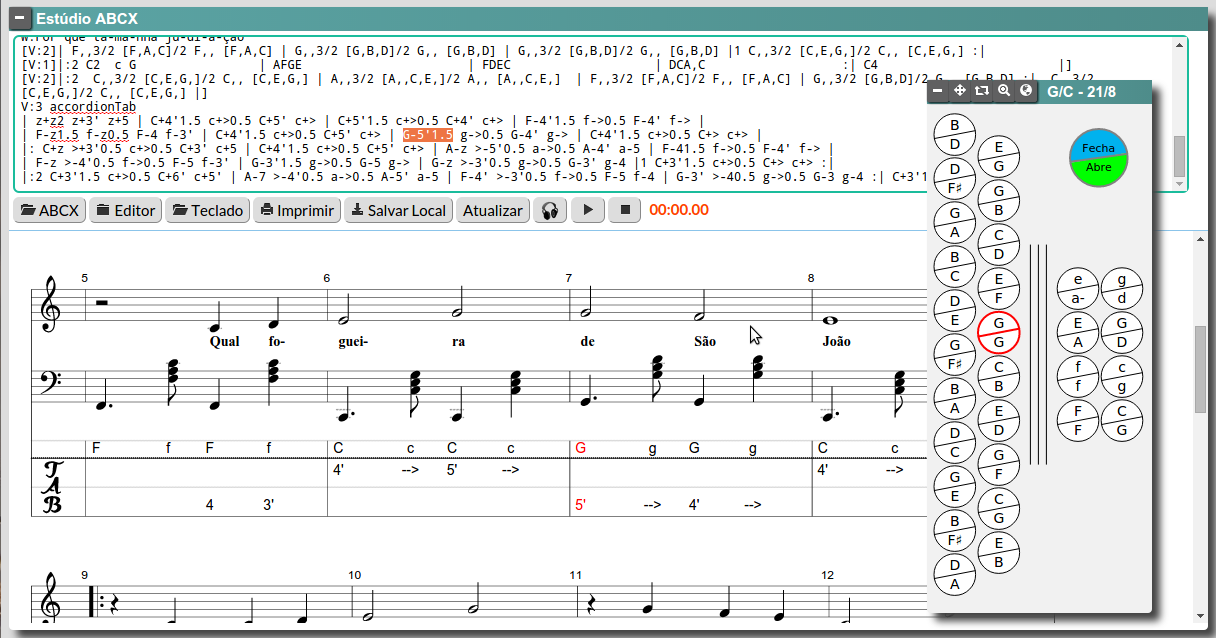
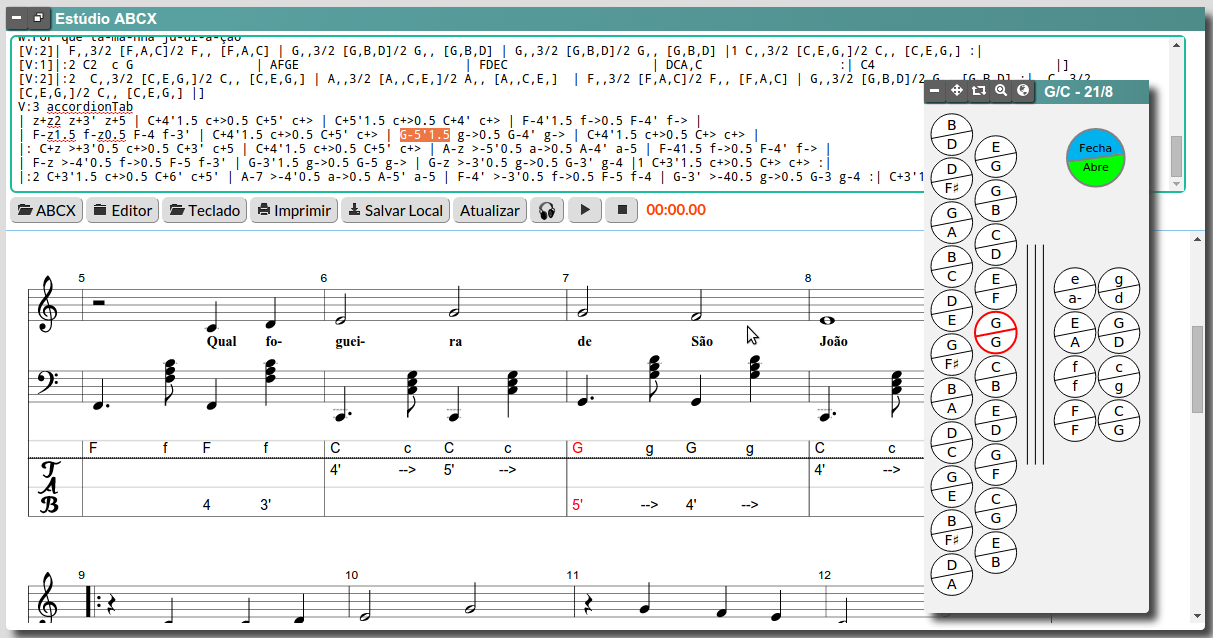
Versao 3.00: Nova apresentacao

diff --git a/html/estudioABCX.pt_BR.html b/html/estudioABCX.pt_BR.html
@@ -1,6 +1,5 @@
 <!DOCTYPE html>
-<html><head>
-<!--
+<html><head><!--
 
 To change this license header, choose License Headers in Project Properties.
 
@@ -9,6 +8,8 @@ To change this template file, choose Tools | Templates
 and open the template in the editor.
 
 --><title>Estúdio ABCX</title>
+
+
 
 
 
@@ -38,7 +39,7 @@ ABCX</span> <button id="printHelp" class="btn" title="Imprimir" onclick="printHe
 conforme
 já dissemos, são partituras formadas por arquivos no formato ABCX (ver
 documentação no menu de ajuda). Esses itens podem ser convenientemente
-modificados e executados neste pequeno estúdio, com o objetivo de
+modificados e executados neste pequeno estúdio, cujo objetivo é
 facilitar o aprendizado da gaita ponto.</p>
 <p>Quando o estúdio é acessado, automaticamente, ele é ajustado para o
 item do repertório do acordeon que estava selecionado na página
@@ -52,8 +53,7 @@ botões, uma
 folha de partitura, um editor de textos e um mapa de teclado. Na barra
 de botões há opções para ocultar/exibir alguns desses componentes, por
 exemplo, o editor e o mapa de teclado. Para fechar o estúdio e voltar à
-página inicial, clique no sinal <span style="font-weight: bold;">[-]</span>,
-no canto superior
+página inicial, clique no sinal <span style="font-weight: bold;">[-]</span>, no canto superior
 esquerdo da janela. </p>
 <div style="text-align: left;"><img src="../img/estudio.visao.geral.png" style="width: 1024px; height: 545px;" alt="Visão geral do estúdio ABCX" title="Visão geral do estúdio ABCX"> <br>
 </div>
@@ -99,12 +99,10 @@ mais adiante.</p>
 <h2>Controlando a apresentação<br>
 </h2>
 <p>Um dos objetivos deste estúdio é executar, com o algumas
-facilidades, uma dada partitura. A primeira coisa a fazer é privilegiar
-o espaço da tela a fim de comportar a maior parte da partitura e um
-mapa de
-teclado.&nbsp; Para tanto, além das funcionalidades disponíveis aqui,
-há algumas
-ações no próprio navegador que ajudam. Listamos os seguintes comandos,
+facilidades, uma dada partitura. A primeira coisa a fazer é ajustar a janela do estúdio, de forma a privilegiar
+o espaço da "<span style="font-weight: bold;">Folha de Partitura</span>" e, ainda, manter outras ferramentas, tais como, o "<span style="font-weight: bold;">Mapa de Teclado</span>".&nbsp; Para tanto, além de usar as funcionalidades disponíveis no estúdio,
+podemos executar algumas
+ações no próprio navegador que ajudarão. Listamos os seguintes comandos,
 comuns à maioria dos navegadores de Internet:</p>
 <ul>
   <li>F11 - Pressione esta tecla do seu computador para
@@ -140,29 +138,41 @@ execução "Didático". <br>
 </span>
 <p><span style="font-weight: bold;">Nota: </span>Observe que o mapa do
 teclado foi rotacionado em 180°, criando o efeito "espelho". Pode ser
-interessante para quem está aprendendo a tocar.<br>
+interessante para quem está aprendendo a tocar. Também, o modo didático
+de execução foi selecionado e os compassos de 1 a 8 estão em execução.
+As notas destacadas na partitura/tablatura são mostradas também no Mapa
+de Teclado.<br>
 </p>
+<p>Para restaurar a a aparência original do estúdio, use o botão "<span style="font-weight: bold;">Restaurar</span>", no canto superior esquerdo, ao lado do botão "<span style="font-weight: bold;">Fechar</span>".<br>
+</p>
+
 <h2>Folha de Partitura<br>
 </h2>
 
 <p>A folha de partitura, como o nome diz, é o display da partitura
 gerada a partir do texto ABCX. Adicionalmente, no topo da&nbsp;
-partitura, há uma pequena seção de avisos. Toda vez que a partitura é atualizada, se acontecer qualquer erro, o mesmo é listado
+partitura, há uma pequena seção de avisos. Toda vez que a partitura é
+atualizada, se acontecer qualquer erro, o mesmo é listado
 nesta área de advertências. A mensagem em verde significa que a
 partitura foi corretamente compilada a partir do texto. Mensagens em
-vermelho retratam erros de sintaxe no texto. Há ainda mensagens mais
+vermelho retratam erros de sintaxe no texto. Há ainda mensagens
 incomuns, em azul, no caso de ocorrer algum erro de execução do MIDI.</p>
 <h2>Mapa de Teclado<br>
 </h2>
 
-<p>Duas facilidades podem ser obtidas a partir da janela do Mapa de
-Teclado: 1) visualizar, durante a execução da partitura, quais botões
-da gaita devem ser pressionados; e, 2) auxiliar na edição do texto ABCX,
-quando se pretende alterar a tablatura. O mapa, aliado ao modo de execução
+<p>O Mapa de Teclado foi disponibilizado na janela do Estúdio para
+atender dois objetivos principais: 1) visualizar, durante a execução da
+partitura, quais botões
+da gaita estão sendo utilizados; e, 2) auxiliar na edição do texto
+ABCX,
+quando se pretende alterar a tablatura. <br>
+</p>
+<p>Este mapa, aliado ao modo de execução
 didática de uma partitura, é uma excelente ferramenta para aprendizado.
-Além disso a janela do Mapa de Teclado possui algumas funcionalidades
-na barra superior (à esquerda do título da janela). Listando os botões
+Além disso, a janela do Mapa de Teclado possui algumas funcionalidades
+na barra superior (à esquerda do título da janela). Enumerando os botões
 da esquerda para a direita, as funcionalidades são as seguintes:</p>
+
 <ul>
   <li>Fechar - Oculta a janela do teclado (pode ser exibido novamente a partir da barra de botões do estúdio).<br>
   </li>
@@ -197,8 +207,8 @@ Modo normal e Modo didático.<br>
 </p>
 <ul>
 <li>Modo normal/didático: chaveia entre os dois modos.<br>
-  </li><li>Executar/Pausar - Inicia a execução ou continua a partir do ponto onde foi suspensa.<br>
-  </li><li>Parar - Interrompe a execução e posiciona o MIDI player para a executar do ínicio novamente.</li>
+  </li><li>Executar/Pausar - Inicia ou suspende a execução. Ao retomar, continua a partir do ponto onde foi suspensa.<br>
+  </li><li>Parar - Interrompe a execução e posiciona o MIDI player para a executar do início novamente.</li>
 </ul>
 <p>Além dos botões do MIDI player, à direita, há o relógio indicador do tempo de execução.<br>
 </p>
@@ -227,7 +237,7 @@ que o botão é pressionado. Sempre executa a partir do ponto onde a
 execução foi anteriormente suspensa.<br>
 </li><li>Compasso: executa o compasso corrente até o seu final. Sempre
 executa a partir do ponto onde a execução foi anteriormente suspensa.</li><li>Repetir: repete o último compasso executado ou o intervalo selecionado nos campos "Ir para" e "até". <br>
-</li><li>Parar: para a execução atual e posiciona no primeiro compasso.</li><li>Andamento: ajusta o andamento em três valores diferentes. O valor "1"
+</li><li>Parar: para a execução atual e posiciona o MIDI player para a executar do início novamente.</li><li>Andamento: ajusta o andamento em três valores diferentes. O valor "1"
 significa o andamento normal, "1/2" significa que a partitura será
 executada com a metade da velocidade normal e, por fim, "1/4" executará
 a partitura 4 vezes mais lentamente que no andamento normal.
@@ -236,7 +246,9 @@ Pressionando mais uma vez, o andamento voltará para o valor "1".</li>
 <p> </p>
 <h2>Editando uma partitura<br>
 </h2>
-<p><span style="font-weight: bold;">Nota:</span> O editor está disponível somente para o Google Chrome atualmente. Para edições simples, veja abaixo "Edição Rápida" ou use o navegador do Google.<br>
+<p><span style="font-weight: bold;">Nota:</span> O editor está
+disponível somente para o Google Chrome atualmente. Para edições
+simples, veja abaixo "Edição Rápida" ou use o navegador do Google.<br>
 </p>
 <p>O segundo objetivo deste estúdio é permitir alterar qualquer partitura. Para tanto, reconfigure o tela para facilitar a edição:</p>
 
@@ -248,7 +260,7 @@ barra de botões para exibir a "Área de texto" <br>
 botão "Editor" para exibir o "Editor ABCX" da gaita (posicione-o adequadamente). <br>
   </li>
 </ul>
-<p>Pode ser interessante deixar visível também o mapa de teclado (isso
+<p>Pode ser interessante deixar visível também o Mapa de Teclado (isso
 irá ajudá-lo a escolher os botões quando estiver editando a tablatura,
 por exemplo). Uma possível visão do estúdio para editar partituras é a
 seguinte:</p>

diff --git a/html/formatoABCX.pt_BR.html b/html/formatoABCX.pt_BR.html
@@ -1,6 +1,5 @@
 <!DOCTYPE html>
-<html><head>
-<!--
+<html><head><!--
 
 To change this license header, choose License Headers in Project Properties.
 
@@ -8,8 +7,10 @@ To change this template file, choose Tools | Templates
 
 and open the template in the editor.
 
--->
-  <title>O formato ABCX</title>
+--><title>O formato ABCX</title>
+
+
+  
 
   
   
@@ -22,8 +23,7 @@ and open the template in the editor.
   <link href="../css/help.css" rel="stylesheet">
 
   
-  <script type="text/javascript" src="../javascripts/help.js"></script>
-</head><body>
+  <script type="text/javascript" src="../javascripts/help.js"></script></head><body>
 <div id="helpHeader" class="helpHeader"> <span class="helpTit">O
 formato ABCX</span> <button id="printHelp" class="btn" title="Imprimir" onclick="printHelp();">Imprimir</button> <button id="closeHelp" class="btn" title="Fechar" onclick="window.close();">Fechar</button> </div>
 
@@ -99,7 +99,7 @@ partitura que suporte tablaturas.</p>
 <p>Vamos usar um trecho da canção "Oh! Susannah" de Stephen Foster para
 criar uma tablatura. Primeiramente veja o fonte ABC:</p>
 <pre>X:1<br>T:Oh! Susannah<br>M:2/4<br>L:1/4<br>Q:100<br>K:G<br>|"C"c c|e/2e/2 -e/2e/2|"G"d/2d/2 B/2G/2|"D7"A3/2G/4A/4|\<br>"G"B/2d/2 d3/4e/4|d/2B/2 G/2A/2|"G"B/2B/2 "D7"A/2A/2|"G"G2<br></pre>
-<p class="page-break"><p>A partitura resultante deste trecho é:</p>
+<p class="page-break"></p><p>A partitura resultante deste trecho é:</p>
 <img src="../img/susannah.partitura.png" style="width: 980px; height: 158px;">
 <p>Rapidamente podemos identificar os elementos desta peça ABC: a
 entrada <span style="font-weight: bold;">"X:"</span> marca o número da
@@ -146,7 +146,7 @@ canção.</p>
 apesar da tablatura poder ser gerada com apenas voz, uma partitura
 completa terá duas vozes (uma para melodia e outra para a baixaria) e
 então o site será capaz de gerar a tablatura com toda a informação.</p>
-<p class="page-break"><p>Vamos modificar novamente nosso arquivo de
+<p class="page-break"></p><p>Vamos modificar novamente nosso arquivo de
 exemplo, incluíndo uma
 nova voz para descrever os baixos, assim:</p>
 <pre>X: 1<br>T:Oh! Susannah<br>M:2/4<br>L:1/4<br>Q:100<br>K:G<br>V:melodia treble<br>|"C"c c|e/2e/2 -e/2e/2|"G"d/2d/2 B/2G/2|"D7"A3/2G/4A/4|\<br>"G"B/2d/2 d3/4e/4|d/2B/2 G/2A/2|"G"B/2B/2 "D7"A/2A/2|"G"G2 |<br>V:baixos bass<br>| C, [C,E,G,] | C, z | G,, z | D, z | G,, z | G,, z | D, [D,^F,A,] | G,, z |<br>V:tablatura accordionTab<br></pre>
@@ -178,7 +178,7 @@ estranha para o formato ABC. Este texto não está no padrão ABC e pode
 gerar problemas com outros interpretadores, mas ele foi gerado única e
 exclusivamente para deixar registrada a tablatura gerada e permitir a
 posterior edição da mesma.</p>
-<p class="page-break"><p>O algoritmo de geração de tablatura funciona da
+<p class="page-break"></p><p>O algoritmo de geração de tablatura funciona da
 seguinte maneira: se
 não houver conteudo após a chave "accordionTab", uma nova tablatura
 será inferida; se já existir, ela será apenas interpretada e desenhada
@@ -246,7 +246,7 @@ pela
 entrada <span style="font-weight: bold;">"L:"</span>, nos metatextos
 da peça.<br>
 </p>
-<p class="page-break"><p>Vamos ao segundo compasso. Há um elemento que
+<p class="page-break"></p><p>Vamos ao segundo compasso. Há um elemento que
 pode surgir em função da dinâmica dos tempos na
 partitura ou ainda em função das ligaduras. Por exemplo, no segundo
 compasso podemos notar que o tempo baixo é o dobro das notas da
@@ -275,17 +275,18 @@ necessária, visto que não é possível gerar univocamente uma tablatura
 para uma dada partitura: a mesma nota pode ser encontrada em mais de um
 botão, às vezes, inclusive com a mesma direção do fole, ou ainda, por
 restrição imposta pelos baixos podendo ser executada somente em uma
-direção do fole.</p>
-<p>Contudo, a edição é possível: ela fica à cargo do usuário e se for
-feita com cuidado não haverá problemas pois o editor preservará as
-edições feitas pelo usuário. Note que, se for necessário alterar um
-botão por outro que esteja disponível com o fole na direção contrária
-da atual, além de alterar o número do botão, deve-se alterar o sinal do
-fole (+/-). Deve-se observar se o baixo estará disponível nesta nova
-direção do fole. Se for indicado o número do botão incorretamente, o
-programa não reportará erro e durante a execução da melodia o botão
-será selecionado mesmo que a nota em execução não seja a mesma.<br>
+direção do fole.<br>
 </p>
+<p>Contudo, a edição é possível: ela fica à cargo do usuário e se for
+feita com cuidado não haverá problemas. Note que, se for necessário alterar um
+botão por outro que esteja disponível, mas com o fole na direção contrária
+da atual, além de alterar o número do botão, deve-se alterar o sinal do
+fole (+/-). Deve-se observar se o baixo está disponível nesta nova
+direção do fole. Se o número do botão for incorretamente indicado, o
+programa não reportará erro, mas durante a execução da melodia, o mesmo provavelmente não será selecionado no "<span style="font-weight: bold;">Mapa de Teclado</span>".</p>
+<p>Para a edição, use "<span style="font-weight: bold;">Estúdio ABCX</span>" que dispõe de algumas ferramentas para facilitar a tarefa. Veja mais informações no menu de ajuda.<br>
+</p>
+
 <p><br>
 </p>
 </div>

diff --git a/mapa-debug.html b/mapa-debug.html
@@ -82,8 +82,8 @@ notação abc, tablatura "/>
                                             <ul class="dropdown-menu" id="opcoes_teoria">
                                               <li><a id="DR_accordion_maps" target="_blank" href="html/mapas.pt_BR.html" >Mapas para acordeons</a></li>
                                               <li><a id="DR_tablature" target="_blank" href="html/tablatura.pt_BR.html" >Tablaturas para acordeons</a></li>
-                                              <li><a id="DR_abc_format" target="_blank" href="html/formatoABCX.pt_BR.html" >Formato ABCX</a></li>
                                               <li><a id="DR_abc_editor" target="_blank" href="html/estudioABCX.pt_BR.html" >Estúdio ABCX</a></li>
+                                              <li><a id="DR_abc_format" target="_blank" href="html/formatoABCX.pt_BR.html" >Formato ABCX</a></li>
                                               <!--li><a id="DR_didactic_mode" target="_blank" href="html/modoDidatico.pt_BR.html" >Modo didático</a></li-->
                                               <li><a id="DR_about" href="#modalAbout" >Sobre</a></li>
                                             </ul>
@@ -118,9 +118,9 @@ notação abc, tablatura "/>
             
             <div id="useChromeDiv" style="position:absolute; left:925px; top:270px; width:150px; height: auto; display:none; z-index:10000;"></div> 
             <div id="hintsDiv" class="draggableWindow" style="left:900px; top:80px; width:200px; height: auto; display:inline; z-index:10000;"></div> 
-            <div id="ADDiv" class="draggableWindow" style="left:920px; top:120px; width:200px; height: auto; display:none; z-index:10000;"></div> 
             <div id="mediaDiv" class="draggableWindow" style="left:900px; top:80px; width:250px; height: auto; display:none; z-index:10000;"></div> 
-            <div id="releaseDiv" class="draggableWindow" style="left:940px; top:160px; width:200px; height: auto; display:inline; z-index:10000;"></div> 
+            <div id="releaseDiv" class="draggableWindow" style="left:920px; top:105px; width:200px; height: auto; display:inline; z-index:10000;"></div> 
+            <div id="ADDiv" class="draggableWindow" style="left:940px; top:160px; width:200px; height: auto; display:none; z-index:10000;"></div> 
     
             <div id="div_principal" class="span12" style="float:left; margin-left: 8px; margin-top: 8px; width: 930px;" >
               <div style="margin:0; padding:0; width:100%;">  
@@ -296,6 +296,9 @@ notação abc, tablatura "/>
                     <div id="btnCloseStudio" class="dButton" draggable="false">
                         <a href="#" title="Fechar" id="dMINUSButtonA" onclick="closeStudio(); return false;" draggable="false"><i class="icon-minus icon-white"></i></a>
                     </div>
+                    <div id="btnRestoreStudio" class="dButton" draggable="false">
+                        <a href="#" title="Restaurar" id="dRESTOREButtonA" onclick="restoreStudio(); return false;" draggable="false"><img alt="" src="img/restore.png" class="icon-white"></a>
+                    </div>
                     <div class="dTitle"><span id="spanTitleStudio" style="padding-left: 5px;">Estúdio ABCX</span></div>
                 </div>
                 <div id="studioHeader">
@@ -433,7 +436,7 @@ notação abc, tablatura "/>
                     w6 = new DRAGGABLE.Div( 6, 'mediaDiv', 'Mídia...', null, null, true );
                 
                 w3.dataDiv.innerHTML = '<center style="padding:4px;"><b>'
-                   + '<br>O formato ABC é a base para toda a geração das partituras deste site. '
+                   + 'O formato ABC é a base para toda a geração das partituras deste site. '
                    + '<br><br>Quer saber mais sobre este formato livre? '
                    + '<a target="_blank" href="http://pt.wikipedia.org/wiki/ABC_%28nota%C3%A7%C3%A3o_musical%29" >Clique aqui!</a>'
                    + '<br></b></center>';
@@ -565,7 +568,6 @@ notação abc, tablatura "/>
                    ,'DR_tablature' 
                    ,'DR_abc_format'
                    ,'DR_abc_editor'
-                   ,'DR_didactic_mode'
                    ,'tabTunes'
                    ,'tabChords'
                    ,'tabPractices'
@@ -592,7 +594,7 @@ notação abc, tablatura "/>
                    ,'forceRefresh'
                    ,'DR_refresh'
                    ,'spanTitleStudio'
-                   //,'DR_debug'
+                   ,'dRESTOREButtonA'
                 ]);
 
                 MIDI.loader = new widgets.Loader();
@@ -673,6 +675,9 @@ notação abc, tablatura "/>
 
             function closeStudio () {
                 myMap.closeStudio();
+            };
+            function restoreStudio () {
+                myMap.restoreStudio();
             };
             
             function resizeStudio()    {

diff --git a/site/mapa.js b/site/mapa.js
@@ -203,7 +203,6 @@ SITE.Mapa.prototype.showStudio = function () {
 
 };
 SITE.Mapa.prototype.showStudio2 = function (loader) {
-    var props = FILEMANAGER.loadLocal('property.studio.settings');
     
     $("#mapContainerDiv").hide();
     document.getElementById("divMenuAccordions").style.pointerEvents = 'none';
@@ -212,9 +211,14 @@ SITE.Mapa.prototype.showStudio2 = function (loader) {
     document.getElementById("DR_repertoire").style.color = 'gray';
     $("#studioDiv").show();
     this.studio.setup(this.currentABC, this.getSelectedAccordion().getId());
-    
+    this.setupProps();
+    loader.stop();
+};
+
+SITE.Mapa.prototype.setupProps = function () {
+    var props = FILEMANAGER.loadLocal('property.studio.settings');
     //props = null; // debug
-    
+   
     if( props ) {
         props = props.split('|');
         this.studio.textVisible                      = (props[0] === 'true');
@@ -235,7 +239,34 @@ SITE.Mapa.prototype.showStudio2 = function (loader) {
         this.studio.showEditor();
         this.studio.showMap();
     }
-    loader.stop();
+};
+
+SITE.Mapa.prototype.restoreStudio = function () {
+    this.studio.textVisible = true;
+    this.studio.editorVisible = false;
+    this.studio.mapVisible = false
+    this.studio.editorWindow.topDiv.style.top = "120px";
+    this.studio.editorWindow.topDiv.style.left = "40px";
+    this.studio.keyboardWindow.topDiv.style.top = "120px";
+    this.studio.keyboardWindow.topDiv.style.left = "900px";
+    this.studio.accordion.render_keyboard_opts.scale = 0.8;
+    this.studio.accordion.render_keyboard_opts.mirror = false;
+    this.studio.accordion.render_keyboard_opts.transpose = false;
+    
+    FILEMANAGER.saveLocal( 'property.studio.settings', 
+        this.studio.textVisible 
+        + '|' + this.studio.editorVisible 
+        + '|' + this.studio.mapVisible 
+        + '|' + this.studio.editorWindow.topDiv.style.top
+        + '|' + this.studio.editorWindow.topDiv.style.left
+        + '|' + this.studio.keyboardWindow.topDiv.style.top
+        + '|' + this.studio.keyboardWindow.topDiv.style.left
+        + '|' + this.studio.accordion.render_keyboard_opts.scale
+        + '|' + this.studio.accordion.render_keyboard_opts.mirror
+        + '|' + this.studio.accordion.render_keyboard_opts.transpose
+        );
+
+    this.setupProps();
 };
 
 SITE.Mapa.prototype.closeStudio = function () {

diff --git a/site/estudio.js b/site/estudio.js
@@ -209,7 +209,7 @@ SITE.Estudio = function (interfaceParams, editorParams, playerParams) {
     
     if( !isChrome ) {
         this.showEditorButton.style.pointerEvents = 'none';
-        this.showEditorButton.style.color = 'lightgray';
+        this.showEditorButton.style.color = 'gray';
     } else {
         this.showEditorButton.addEventListener("click", function () {
             that.showEditor();
@@ -675,7 +675,7 @@ SITE.Estudio.prototype.parseABC = function(transpose) {
 
 SITE.Estudio.prototype.highlight = function(abcelem) {
   this.editArea.setSelection(abcelem.startChar, abcelem.endChar);
-  if(this.editorVisible)
+  if(isChrome && this.editorVisible)
     editAreaLoader.setSelectionRange("editorTextArea", abcelem.startChar, abcelem.endChar);
 };
 
@@ -748,6 +748,7 @@ SITE.Estudio.prototype.setup = function(tab, accordionId) {
     editAreaLoader.setValue("editorTextArea", this.renderedTune.text );
     this.editorWindow.setTitle('-&nbsp;' + tab.title);
     this.keyboardWindow.setTitle(this.accordion.getTxtTuning() + ' - ' + this.accordion.getTxtNumButtons() );
+    document.getElementById( 'studioCanvasDiv').scrollTop = 0;
     this.fireChanged2(0,'force');
 };
 
